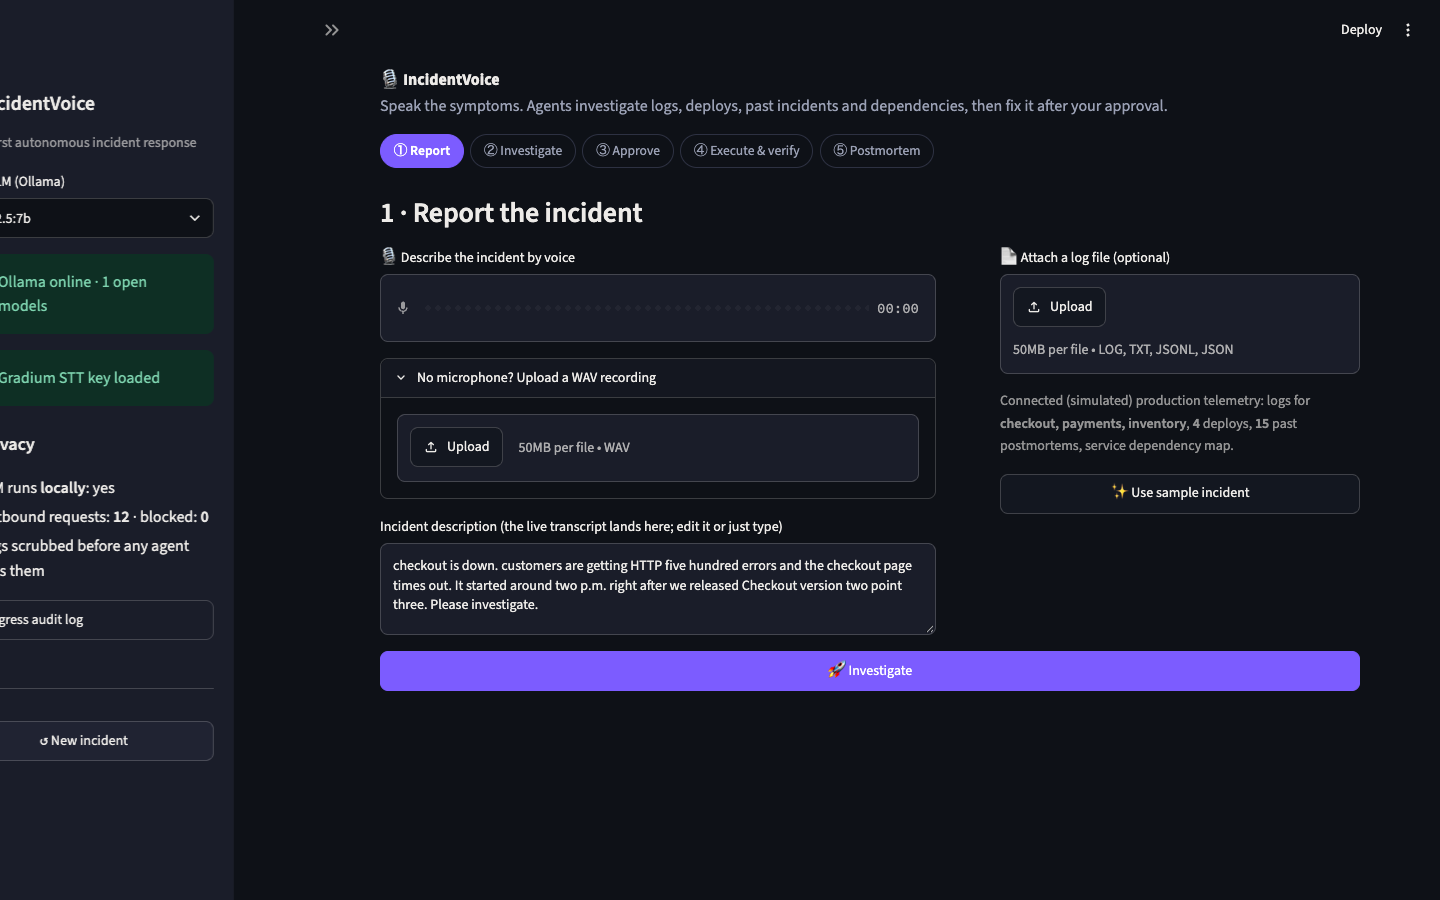
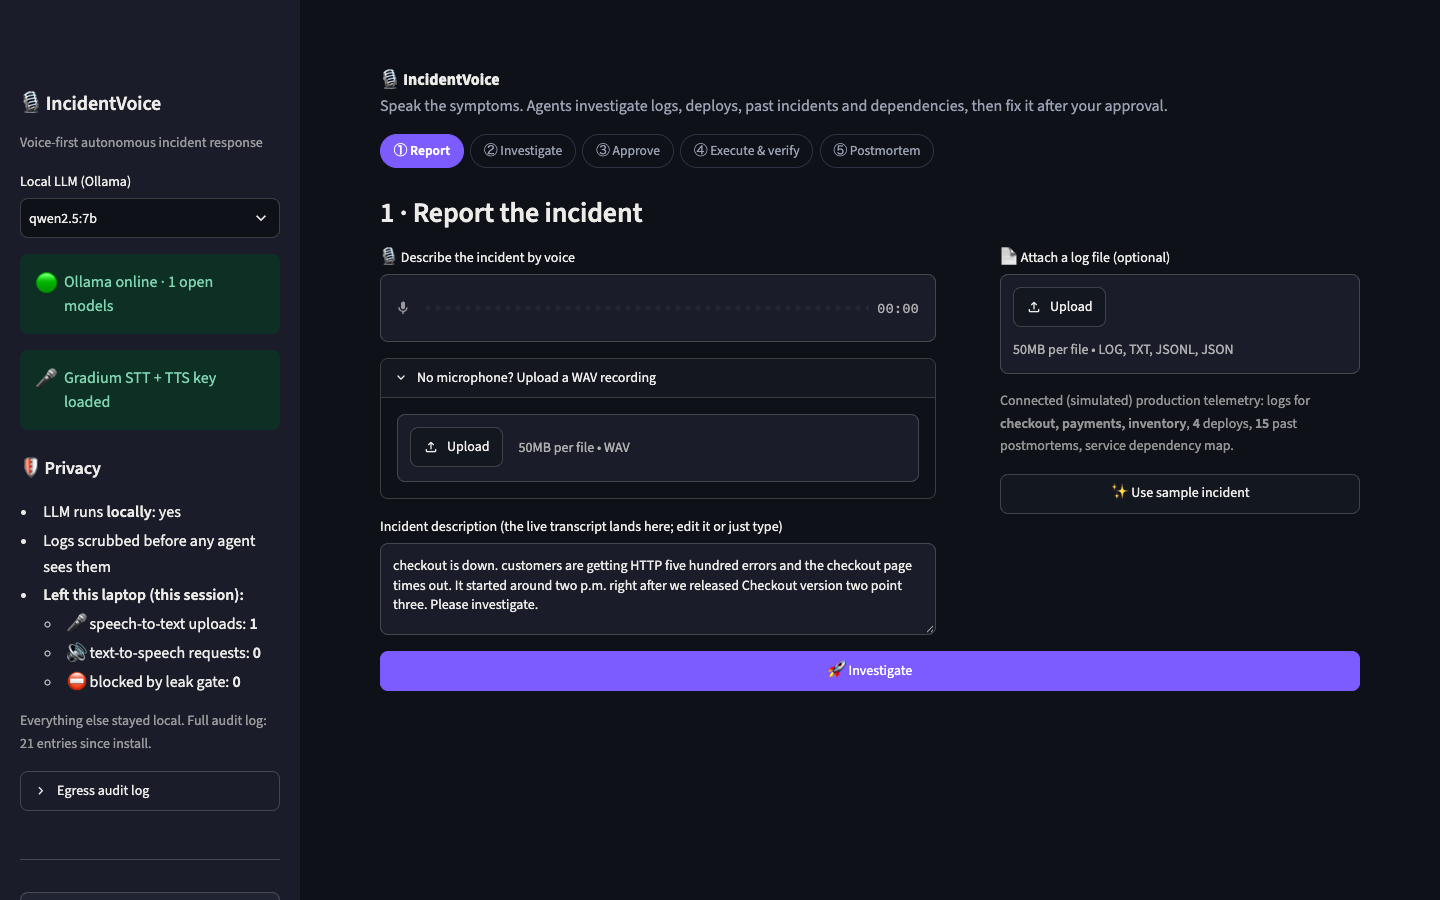
Fresh demo assets for labelled attempts + per-session egress; sidebar counts TTS immediately

diff --git a/app.py b/app.py
@@ -294,7 +294,7 @@ def render_attempt(n, e):
     v = e["verification"]
     head = st.columns([4, 1])
     head[0].markdown(f"**Attempt {n}: {e['action']['title']}** · approved by {e['approver']} at {fmt_t(e['at'])}")
-    head[1].markdown("### ✅ Verified" if v["passed"] else "### ❌ Not verified")
+    head[1].markdown("#### ✅ Verified" if v["passed"] else "#### ❌ Not verified")
     k = st.columns(4)
     f0, f1 = e["samples"][0], e["samples"][-1]
     k[0].metric("Error rate", f"{f1['error_rate']:.1%}", f"{(f1['error_rate'] - f0['error_rate']) * 100:+.1f} pts",
@@ -345,6 +345,8 @@ if verified:
                     ss.tts = {"wav": wav, "text": sent, "autoplay": True}
                 except Exception as e:  # EgressBlocked, TTSError, network
                     st.error(f"Text-to-speech failed: {e}")
+                else:
+                    st.rerun()  # redraw so the sidebar's egress counter includes this request
             if ss.tts:
                 st.audio(ss.tts["wav"], format="audio/wav", autoplay=ss.tts.pop("autoplay", False))
                 st.caption(f"🛡 Sent to Gradium after scrubbing + leak gate (logged in the egress audit log): "

diff --git a/docs/sample_postmortem.md b/docs/sample_postmortem.md
@@ -1,31 +1,31 @@
 # Incident report: checkout incident (SEV1)
 
-*Generated by IncidentVoice on 2026-11-08 06:07:30 UTC · model `qwen2.5:7b` (local) · status: **RESOLVED (verified)***
+*Generated by IncidentVoice on 2026-11-08 07:23:46 UTC · model `qwen2.5:7b` (local) · status: **RESOLVED (verified)***
 
 ## Executive summary
-The checkout service experienced a SEV1 outage on November 5, 2026, with an error rate peaking at 67%. The root cause was the deployment of version v2.3, which reduced the database connection pool size from 50 to 5, leading to capacity starvation under normal load. Reverting the configuration fixed the issue. To prevent future incidents, we will implement alerts for pool wait time and CI checks for significant pool size changes, as well as failover procedures and status page monitoring.
+The checkout service experienced a severe degradation in performance on 2026-11-05 at 14:03 UTC, with an error rate peaking at 67%. The root cause was the deployment of version v2.3, which reduced `db.pool.max_size` from 50 to 5, leading to a pool starvation under normal load conditions. Reverting the configuration fixed the issue. To prevent future incidents, we will implement alerts for pool wait times and CI checks to flag significant changes in pool size. Verification of recovery was done through health checks post-reversion.
 
 ## Impact
 - **Affected service:** checkout; **blast radius:** checkout, inventory, payments
 - **Peak error rate:** 67% (5-min buckets); error rate since onset 42%
 - **Latency:** median 130 ms before → 10006 ms after onset
-- **Symptoms reported:** HTTP 500 errors, Checkout page times out, Customer reported failed payment at 2pm after release of version 2.3
+- **Symptoms reported:** HTTP 500 errors, Checkout page times out
 
 ## Timeline (UTC)
 | Time | Event |
 |---|---|
 | 2026-11-05 14:00:00 UTC | Deploy checkout v2.3 by j.park: Reduce idle DB connections to cut Postgres costs |
 | 2026-11-05 14:03:51 UTC | First errors: db pool saturated |
-| 2026-11-08 06:06:38 UTC | Incident reported by voice/text; 12 agent steps, investigation took 31 s |
-| 2026-11-08 06:06:51 UTC | APPROVED by on-call engineer: Restart checkout pods |
-| 2026-11-08 06:06:56 UTC | Executed (simulated): Restart checkout pods → recovery NOT verified |
-| 2026-11-08 06:07:04 UTC | APPROVED by on-call engineer: Revert db.pool.max_size on checkout to 50 |
-| 2026-11-08 06:07:09 UTC | Executed (simulated): Revert db.pool.max_size on checkout to 50 → recovery verified |
+| 2026-11-08 07:22:43 UTC | Incident reported by voice/text; 12 agent steps, investigation took 24 s |
+| 2026-11-08 07:22:56 UTC | APPROVED by on-call engineer: Restart checkout pods |
+| 2026-11-08 07:23:01 UTC | Executed (simulated): Restart checkout pods → recovery NOT verified |
+| 2026-11-08 07:23:09 UTC | APPROVED by on-call engineer: Revert db.pool.max_size on checkout to 50 |
+| 2026-11-08 07:23:14 UTC | Executed (simulated): Revert db.pool.max_size on checkout to 50 → recovery verified |
 
 ## Root cause
-**Deploy v2.3 of checkout changed db.pool.max_size from 50 to 5, starving checkout of capacity under normal load.** (confidence 66%)
+**Deploy v2.3 of checkout changed db.pool.max_size from 50 to 5, starving checkout of capacity under normal load.** (confidence 65%)
 
-The error signatures mention 'db pool saturated' and the recent deploy changed db.pool.max_size from 50 to 5, which aligns with a past incident where a similar change led to connection pool exhaustion.
+The error signatures mention 'db pool saturated' and the recent deploy of v2.3 changed db.pool.max_size from 50 to 5, which aligns with past incidents where a similar change led to connection pool exhaustion.
 
 **Evidence**
 - v2.3 deployed 4 min before error onset (2026-11-05T14:00:00Z)
@@ -38,15 +38,15 @@ The error signatures mention 'db pool saturated' and the recent deploy changed d
 **Other hypotheses considered**
 - H-config-db.pool.idle_timeout_s (22%): Deploy v2.3 of checkout changed db.pool.idle_timeout_s from 600 to 120, shortly before errors began.
 - H-config-inventory.timeout_ms (5%): Deploy v2.2 of checkout changed inventory.timeout_ms from 5000 to 10000, shortly before errors began.
-- H-db-postgres (4%): postgres itself is overloaded or unavailable.
+- H-capacity-checkout (4%): checkout is exhausting an internal resource (pool, exhausted, timeout) due to load or a leak, independent of any deploy.
 
 ## Similar past incidents (RAG)
-- **INC-2025-014** Orders API connection pool exhausted after config refactor (BM25 48.3). Fix then: Rolled back to the previous release, restoring pool size 40; errors cleared in 3 minutes. Added an alert on pool wait time and a CI check that flags pool size changes over 50%.
-- **INC-2025-052** Payment provider outage causes authorization timeouts (BM25 36.7). Fix then: Failed over to secondary PSP region; added circuit breaker and status page monitor.
-- **INC-2026-003** Payments DB connection leak exhausts Postgres pool under load (BM25 36.3). Fix then: Mitigated by rolling restart. Fixed by wrapping DB sessions in a context manager, setting a pool leak-detection threshold, and graphing pool in_use / waiting per pod.
+- **INC-2025-014** Orders API connection pool exhausted after config refactor (BM25 46.8). Fix then: Rolled back to the previous release, restoring pool size 40; errors cleared in 3 minutes. Added an alert on pool wait time and a CI check that flags pool size changes over 50%.
+- **INC-2026-003** Payments DB connection leak exhausts Postgres pool under load (BM25 31.7). Fix then: Mitigated by rolling restart. Fixed by wrapping DB sessions in a context manager, setting a pool leak-detection threshold, and graphing pool in_use / waiting per pod.
+- **INC-2025-052** Payment provider outage causes authorization timeouts (BM25 31.4). Fix then: Failed over to secondary PSP region; added circuit breaker and status page monitor.
 
 ## Remediation and verification
-### Restart checkout pods (❌ not verified)
+### Attempt 1: Restart checkout pods (❌ not verified)
 Approved by **on-call engineer** · risk low · simulated environment
 
 ```
@@ -61,17 +61,17 @@ Criteria: last 4 health checks: error rate < 1% and p99 < 1000 ms
 
 | Check | Error rate | p99 (ms) | Pool waiting | Status |
 |---|---|---|---|---|
-| 06:06:38 | 82.5% | 29880 | 132 | failing |
-| 06:09:08 | 42.3% | 15408 | 67 | failing |
-| 06:09:38 | 28.2% | 10331 | 45 | failing |
-| 06:10:08 | 63.5% | 23040 | 101 | failing |
-| 06:10:38 | 75.8% | 27468 | 121 | failing |
-| 06:11:08 | 80.2% | 29052 | 128 | failing |
-| 06:11:38 | 81.7% | 29591 | 130 | failing |
-| 06:12:08 | 82.5% | 29880 | 132 | failing |
-| 06:12:38 | 82.5% | 29880 | 132 | failing |
+| 07:22:43 | 82.5% | 29880 | 132 | failing |
+| 07:25:13 | 42.3% | 15408 | 67 | failing |
+| 07:25:43 | 28.2% | 10331 | 45 | failing |
+| 07:26:13 | 63.5% | 23040 | 101 | failing |
+| 07:26:43 | 75.8% | 27468 | 121 | failing |
+| 07:27:13 | 80.2% | 29052 | 128 | failing |
+| 07:27:43 | 81.7% | 29591 | 130 | failing |
+| 07:28:13 | 82.5% | 29880 | 132 | failing |
+| 07:28:43 | 82.5% | 29880 | 132 | failing |
 
-### Revert db.pool.max_size on checkout to 50 (✅ verified)
+### Attempt 2: Revert db.pool.max_size on checkout to 50 (✅ verified)
 Approved by **on-call engineer** · risk low · simulated environment
 
 ```
@@ -87,28 +87,28 @@ Criteria: last 4 health checks: error rate < 1% and p99 < 1000 ms
 
 | Check | Error rate | p99 (ms) | Pool waiting | Status |
 |---|---|---|---|---|
-| 06:12:38 | 82.5% | 29880 | 132 | failing |
-| 06:15:08 | 28.9% | 10584 | 46 | failing |
-| 06:15:38 | 10.1% | 3816 | 16 | degraded |
-| 06:16:08 | 3.5% | 1440 | 5 | degraded |
-| 06:16:38 | 1.2% | 612 | 1 | degraded |
-| 06:17:08 | 0.0% | 171 | 0 | healthy |
-| 06:17:38 | 0.0% | 178 | 0 | healthy |
-| 06:18:08 | 0.0% | 185 | 0 | healthy |
-| 06:18:38 | 0.0% | 192 | 0 | healthy |
+| 07:28:43 | 82.5% | 29880 | 132 | failing |
+| 07:31:13 | 28.9% | 10584 | 46 | failing |
+| 07:31:43 | 10.1% | 3816 | 16 | degraded |
+| 07:32:13 | 3.5% | 1440 | 5 | degraded |
+| 07:32:43 | 1.2% | 612 | 1 | degraded |
+| 07:33:13 | 0.0% | 171 | 0 | healthy |
+| 07:33:43 | 0.0% | 178 | 0 | healthy |
+| 07:34:13 | 0.0% | 185 | 0 | healthy |
+| 07:34:43 | 0.0% | 192 | 0 | healthy |
 
 ## Lessons learned
-- Configurations affecting critical resources like database connection pools should be thoroughly tested in staging environments before deployment.
-- Implementing automated alerts for resource utilization metrics can help detect issues early.
-- Documenting and standardizing the rollback process is crucial to quickly resolve such incidents.
+- Configuration changes must be thoroughly tested before deployment to ensure they do not negatively impact service performance.
+- Monitoring tools should include real-time alerts on critical resource usage metrics, such as connection pool wait times and sizes.
+- Automated CI/CD processes should include checks for significant configuration changes that could affect system stability.
 
 ## Follow-up actions
-- [ ] Deploy an alert on pool wait time for the checkout service, similar to the one used in past incident INC-2025-014.
-- [ ] Add a CI check that flags any significant changes (over 50%) to database connection pool sizes before deployment.
-- [ ] Update runbooks with detailed steps for rolling back critical configuration changes like db.pool.max_size.
-- [ ] Conduct a post-mortem review of the incident and update the incident response plan, including failover procedures.
+- [ ] Implement a new alert in our monitoring system to notify the team if the `db.pool.wait_time` exceeds a certain threshold.
+- [ ] Add a CI check that flags any configuration changes involving `db.pool.max_size` or similar critical settings, ensuring they do not exceed 10% of their previous value without review.
+- [ ] Update runbooks for database connection pool management to include steps for diagnosing and mitigating issues related to pool size and wait times.
+- [ ] Conduct a retrospective analysis on all recent deployments to identify any potential configuration changes that could have similar impacts, and document findings.
 
 ## Privacy statement
-- Logs were scrubbed on load (159 sensitive values replaced: EMAIL 29, IP 23, CARD 26, API_KEY 31, TOKEN 28, PHONE 22).
+- Logs were scrubbed on load (158 sensitive values replaced: EMAIL 28, IP 23, CARD 26, API_KEY 31, TOKEN 28, PHONE 22).
 - All reasoning ran on a local open-source model (`qwen2.5:7b` via Ollama). No log data left the machine.
-- Egress audit log: 0 outbound requests (speech-to-text audio only), 0 blocked by the leak gate.
+- Egress audit log for this session: 1 speech-to-text upload + 1 text-to-speech request, 0 blocked by the leak gate. Only voice traffic left the machine: the incident audio (hashed) and the scrubbed spoken summary (logged verbatim).
